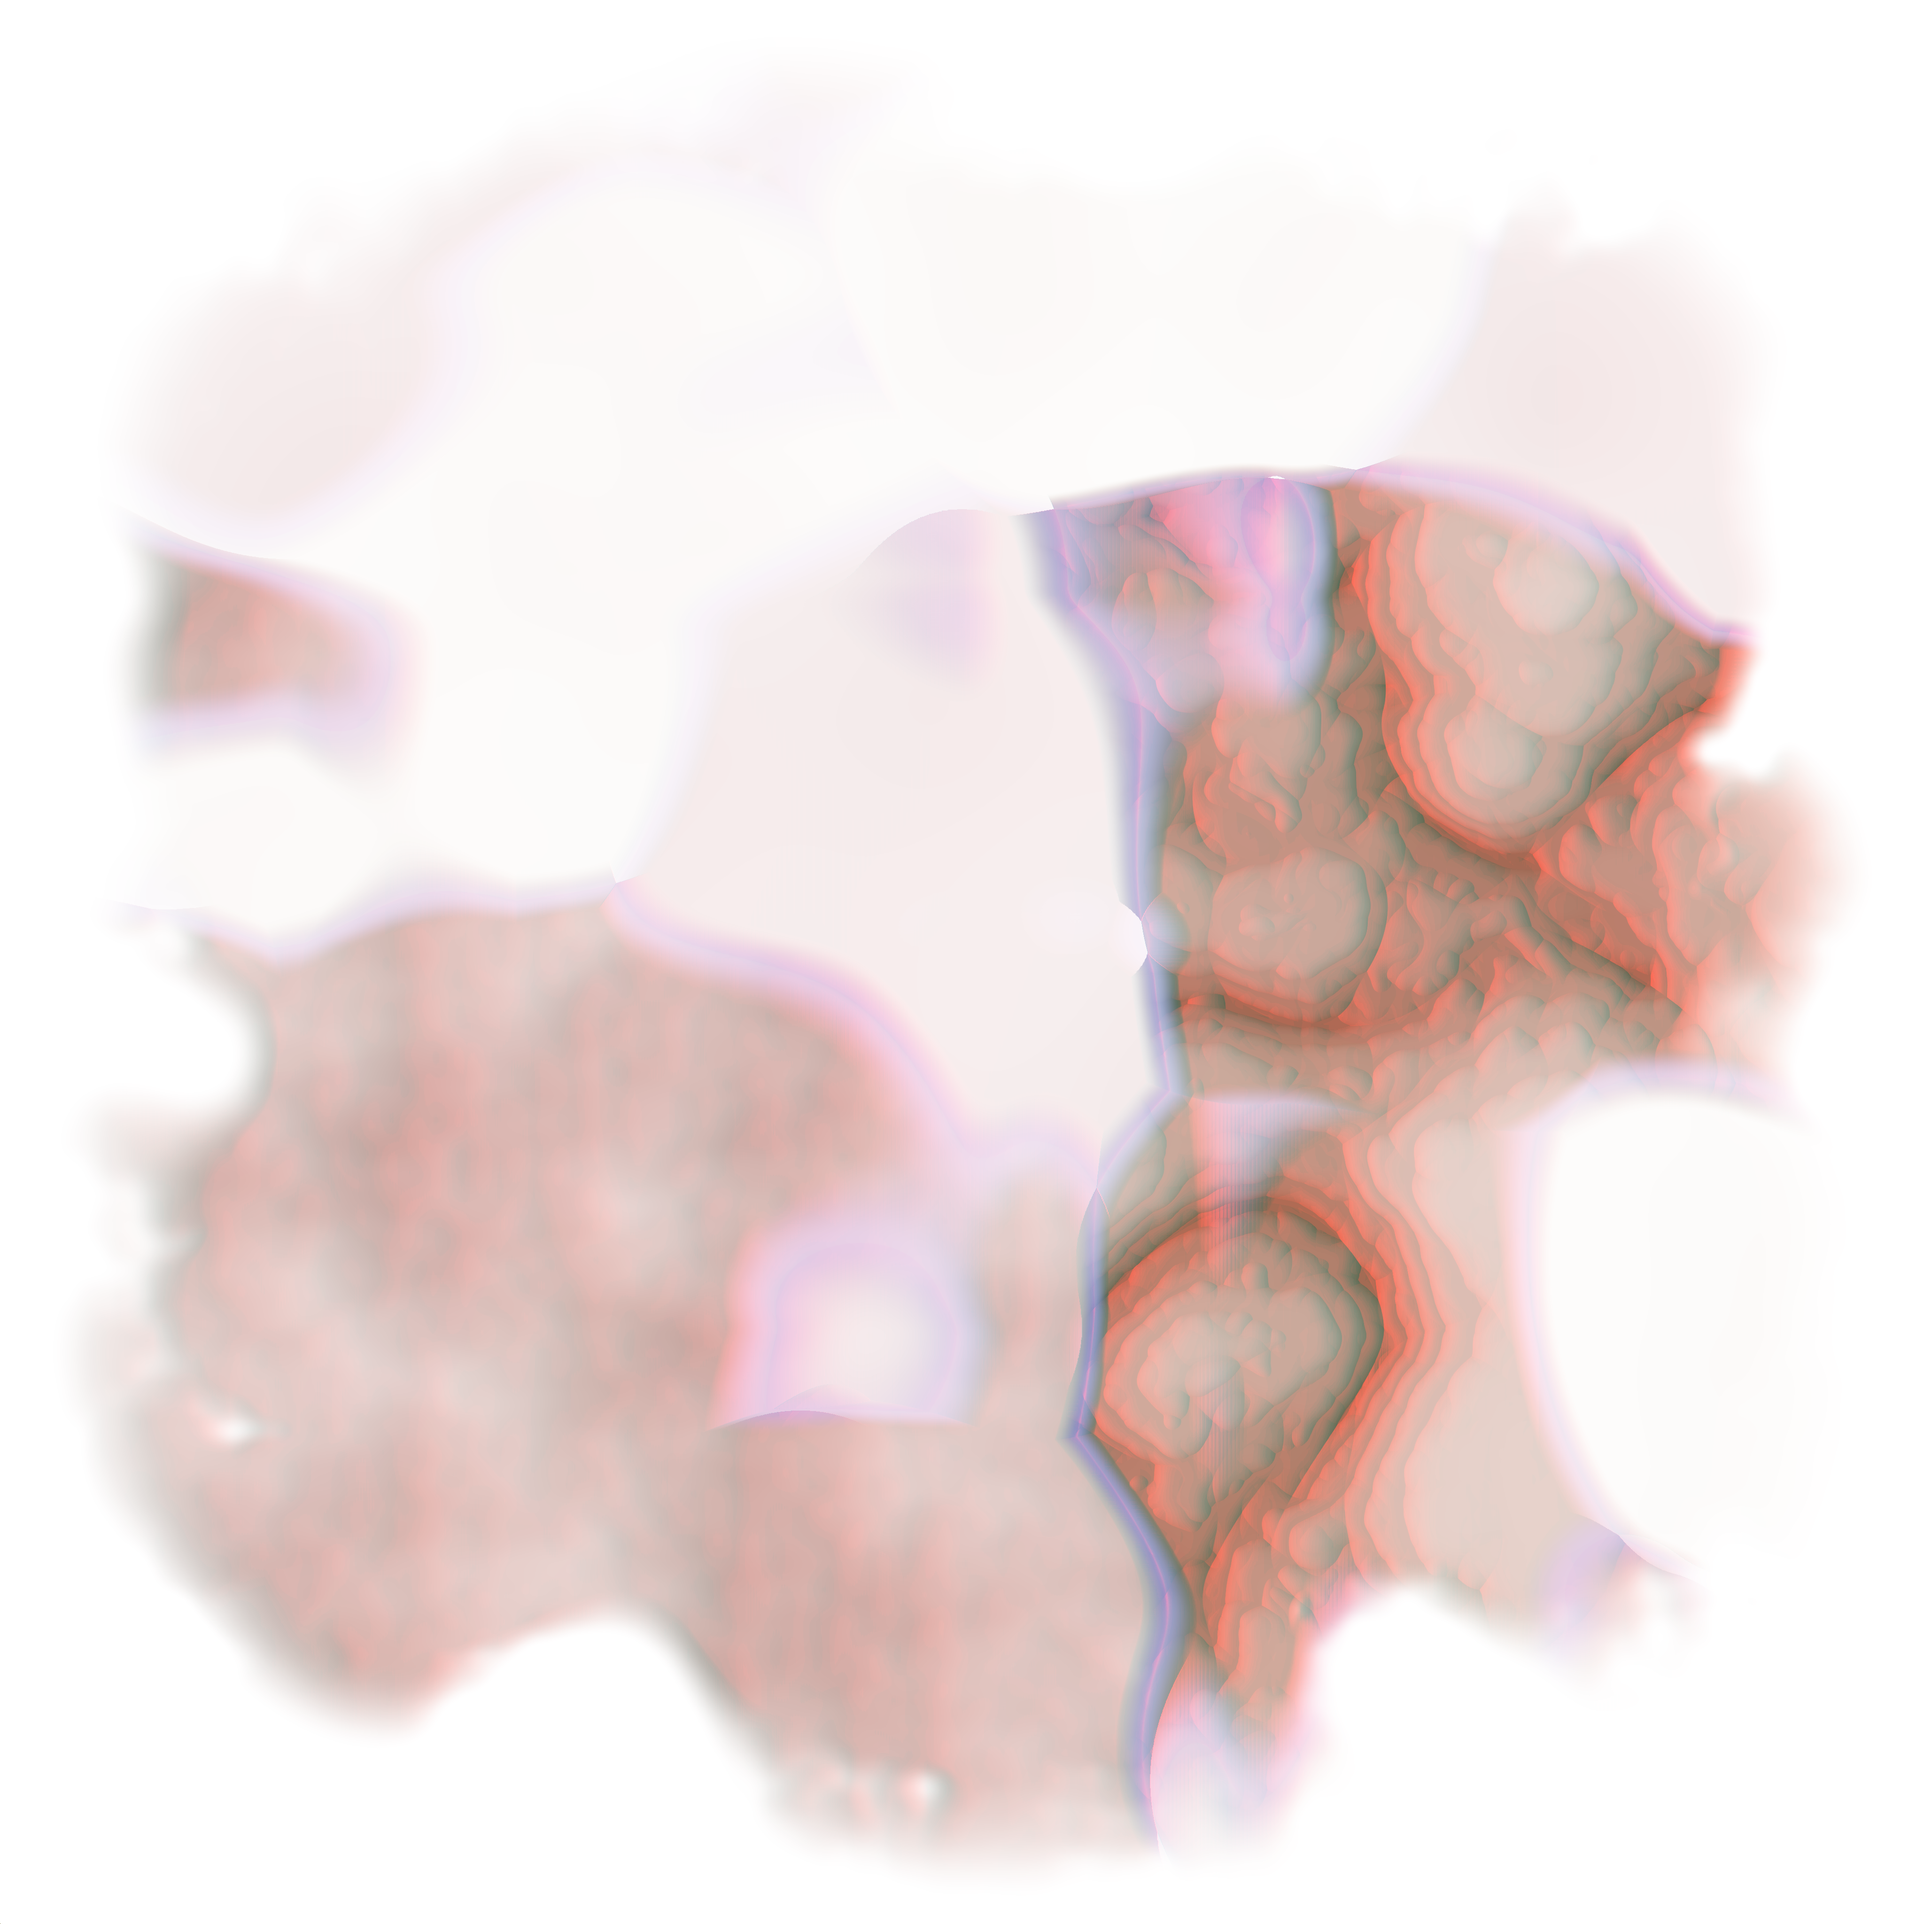
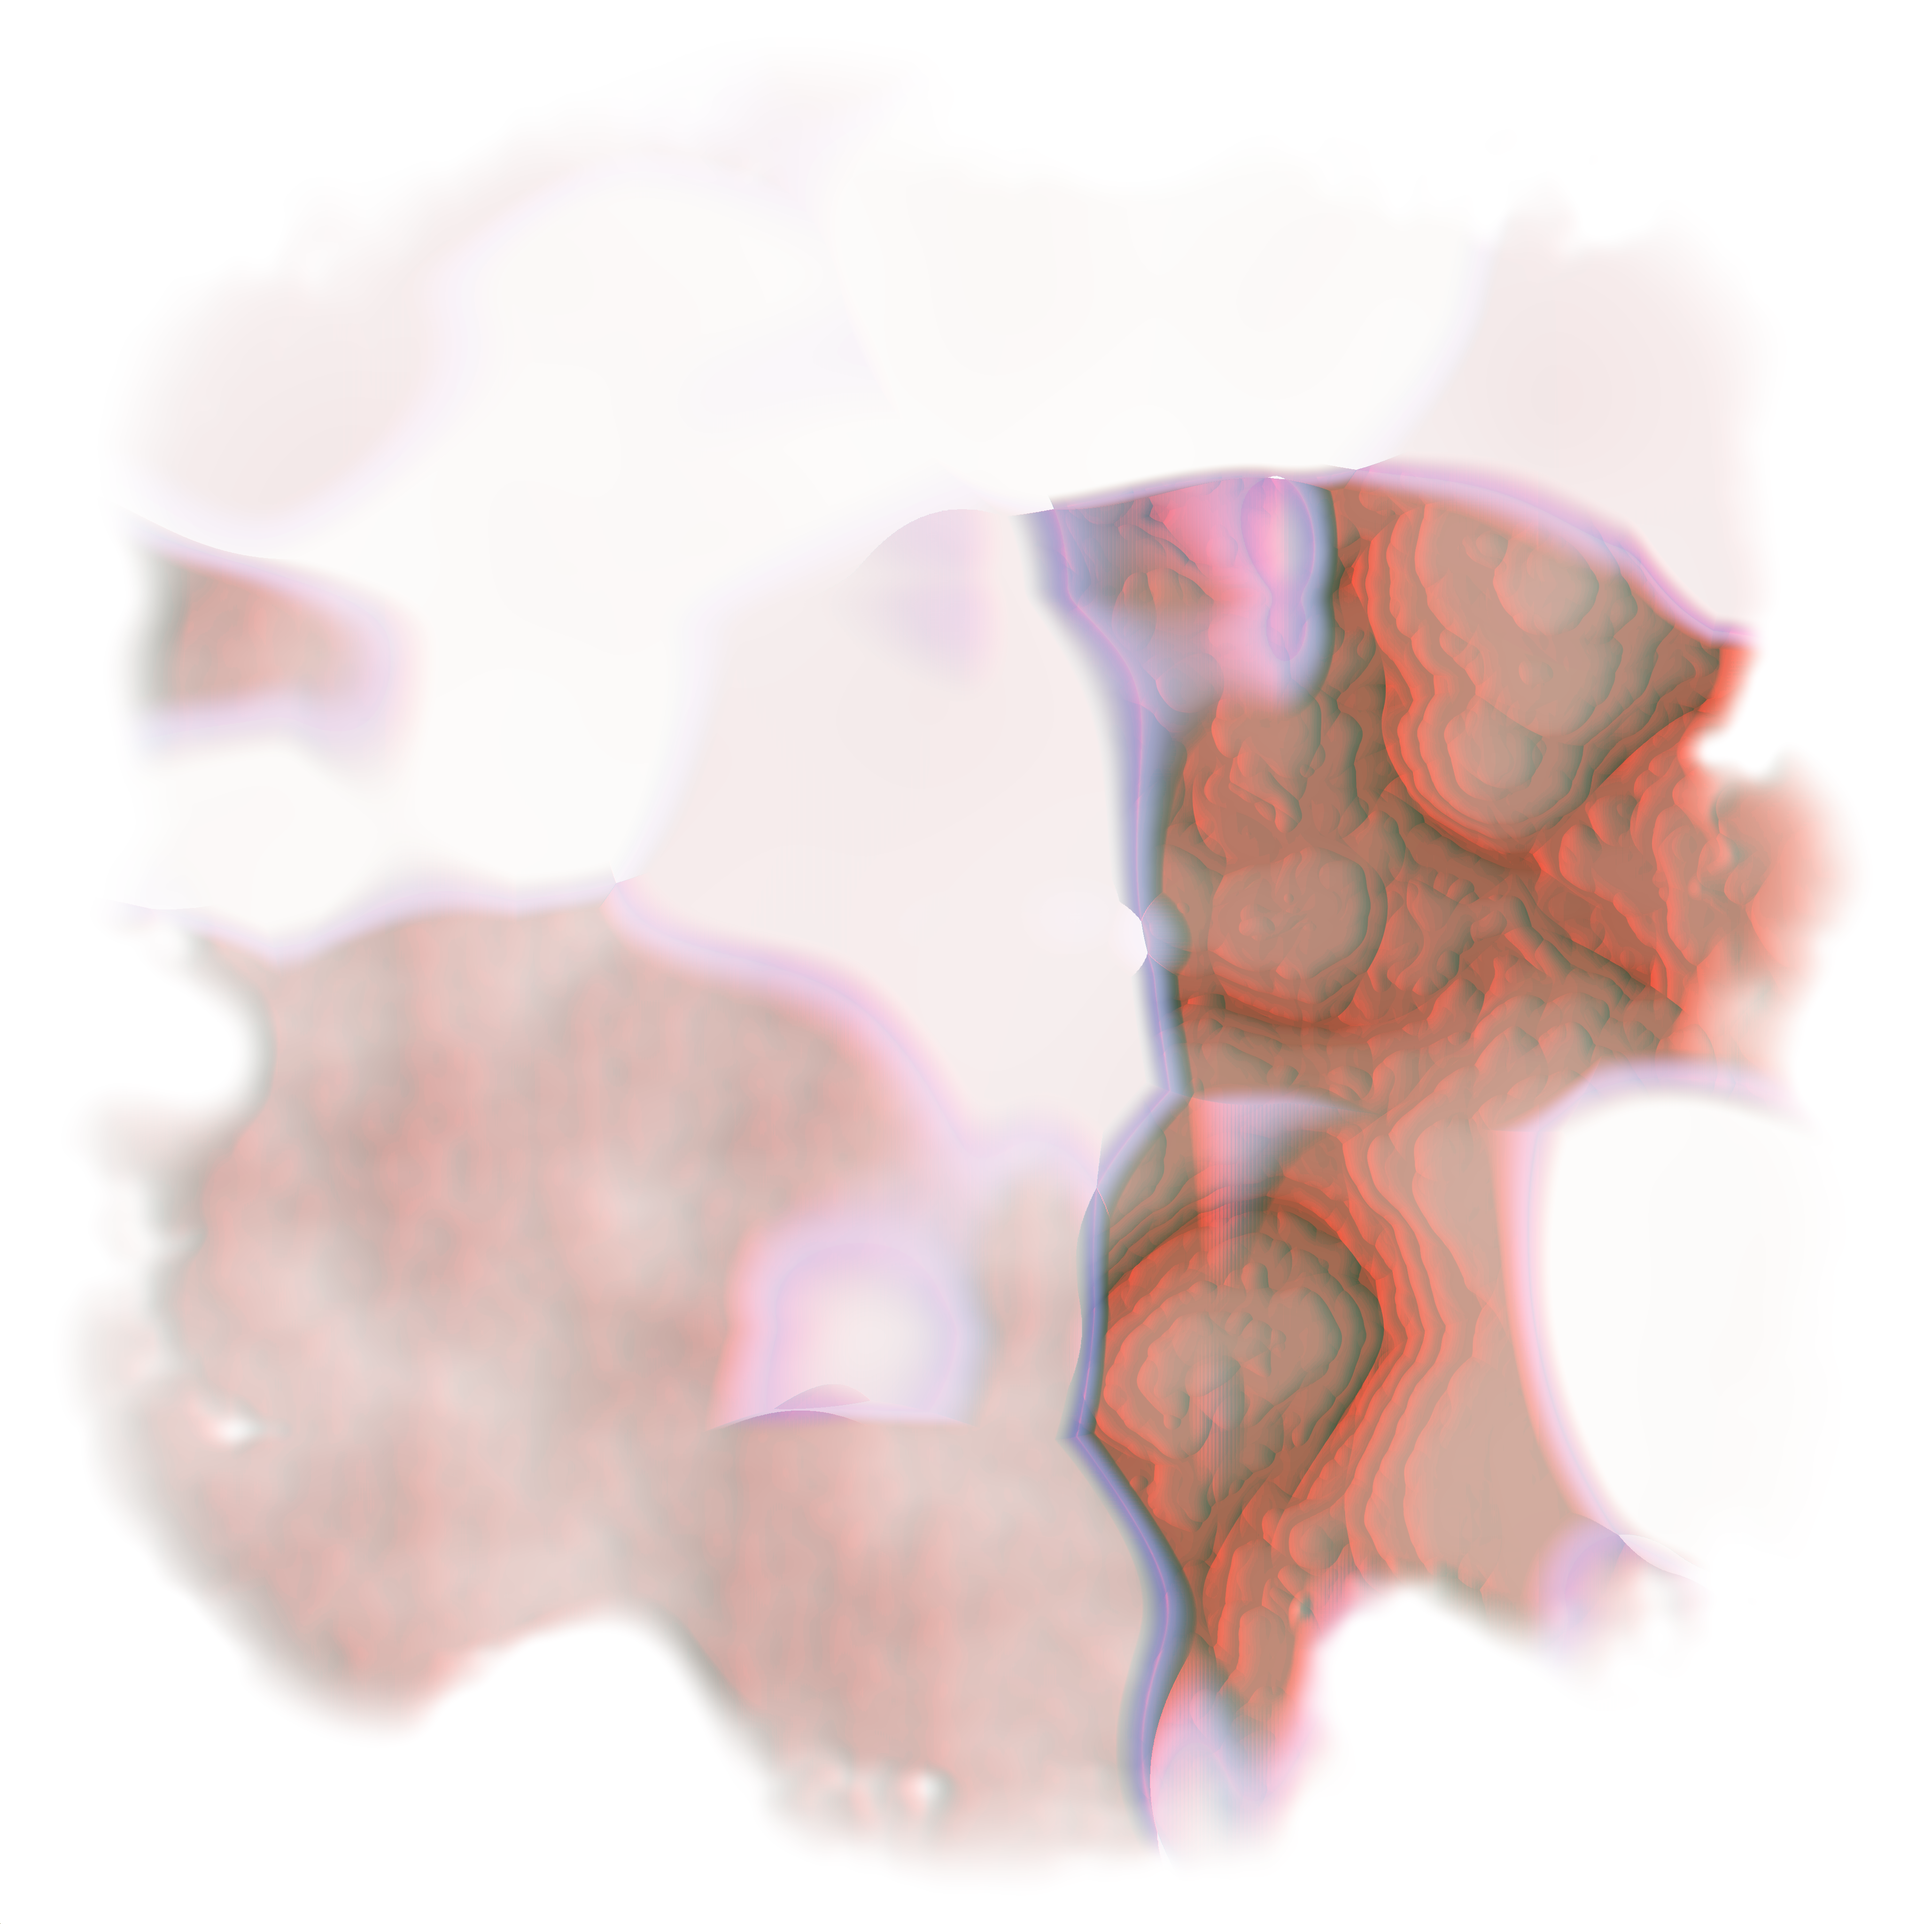
Lift the mountains clear of the meadows
The biomes' elevation bands overlapped: the mountain floor sat at its
BaseElevation of 26 while meadows reached 44.8, so 23% of inland mountain
ground was lower than the tallest meadow. Anything keyed off elevation rather
than biome - a snow line, thinning vegetation - puts its effect on the wrong
ground when that happens, which is how it was noticed.

There was ample room to fix it. The mountains reached only 86 of the 127.5
units the alpha channel encodes, leaving 42 units unused.

BaseElevation goes 26 -> 48, clearing the highest meadow with a few units to
spare, and ReliefAmplitude 95 -> 76 to keep the ceiling at 124, inside the
channel. Trimming the range costs less than it buys: the base contributes in
full, so the peak rises from 86 to 96, and the gentler gradient leaves more of
the biome level - buildable ground over a 6x6 footprint goes from 34% to 40%.

Measured inland, away from the shore ramp, the four bands are now disjoint:

  swamp        2.0 ..  4.1
  plains       8.3 .. 11.8
  meadows     23.6 .. 44.8
  mountains   48.0 .. 95.6

Each floor clears the peak below it. The cost is contrast, which the previous
commit had deliberately narrowed: the meadow-to-mountain gap in medians widens
from 24 to 36 units. That is inherent - a biome cannot both start above
another and sit close to it - and correctness of the ordering wins.

Note that the ordering is maintained by choosing these numbers, not enforced.
[…]

Changed region(s): [[0.5625, 0.25, 0.9375, 0.9062]]

diff --git a/RPGMapGeneration/Generation/BiomeProfile.cs b/RPGMapGeneration/Generation/BiomeProfile.cs
@@ -159,8 +159,17 @@ namespace RPGMapGeneration.Generation
                     Id = 2,
                     Name = "mountains",
                     PreviewColor = Color.FromBytes(150, 150, 158),
-                    BaseElevation = 26.0f,
-                    ReliefAmplitude = 95.0f,
+                    // High enough that the mountain floor clears the highest meadow. Without
+                    // that the two biomes overlap in height - 23% of inland mountain ground
+                    // used to sit below the tallest meadow - and anything keyed off elevation,
+                    // snow or thinning vegetation, ends up on the wrong ground.
+                    BaseElevation = 48.0f,
+
+                    // Trimmed to keep base + relief under the 127.5 the alpha channel encodes.
+                    // Costing the range here buys more than it loses: the peak rises from 86 to
+                    // 96 because the base contributes in full, and the gentler gradient leaves
+                    // more of the biome level.
+                    ReliefAmplitude = 76.0f,
 
                     // Broad massifs rather than a field of spikes. Feature size is what decides
                     // whether terracing can produce a shelf worth standing on: a tread is only
@@ -185,9 +194,9 @@ namespace RPGMapGeneration.Generation
                     // Squaring it digs the valleys back in.
                     ReliefBias = 2,
 
-                    // Eight shelves of about twelve units each. Measured over a 6x6 unit
-                    // footprint, 22% of the biome is now level to within 1.5 units and 41% to
-                    // within 3, against 0% and 1.4% before.
+                    // Eight shelves of about nine and a half units each. Measured over a 6x6
+                    // unit footprint, 43% of the inland biome is level to within 3 units,
+                    // against 1.4% before terracing.
                     TerraceSteps = 8,
                     TerraceStrength = 0.9f,
                     TerraceFlatness = 3

diff --git a/CLAUDE.md b/CLAUDE.md
@@ -55,7 +55,7 @@ so regenerate and byte-compare:
 dotnet run --project rpgmapgen -- -o rpgmapgen/output/check.png -s 4096
 ```
 
-That reproduces `rpgmapgen/output/testgen.png` byte for byte (`sha256 98b2ba4d…` for the
+That reproduces `rpgmapgen/output/testgen.png` byte for byte (`sha256 0b6e4219…` for the
 default settings and a version 1 header). This is a *reproducibility* check, not a parity
 check against Unity: the same settings must always give the same bytes, because a tool's
 preview and the game's bake have to agree. A difference after a refactor that was meant to
@@ -251,11 +251,19 @@ Measured from the checked-in 4096 bake, so that these are not mistaken for desig
   buildable ground from 1.4% to 30%; `TerraceSteps` then added a further 10 points. Reach for
   the noise first and the terraces second. `TerraceStrength` barely moves buildability at all
   (20.7% at 0.5 against 23.6% at 0.9, measured on the baked texture) — it is a look control.
-- **Mountains no longer reach the top of the channel.** Easing `Ridged` to 0.65 and keeping
-  `ReliefBias = 2` caps the achieved peak near 86 of 127.5 units, though the profile's ceiling
-  is 121. That is deliberate: raising it back up widens the gap to the meadows again, which is
-  the contrast the defaults were tuned to close. Note that `DescribeWarnings` checks a
-  profile's *ceiling*, not the height it actually reaches, so it will not flag this.
+- **The biomes' elevation bands are ordered, and nothing enforces it.** `BaseElevation` is a
+  biome's floor, since relief is never negative, and the defaults are picked so each floor
+  clears the peak of the biome below: swamp 2.0–4.1, plains 8.3–11.8, meadows 23.6–44.8,
+  mountains 48.0–95.6 measured inland. Anything keyed off elevation rather than biome — a snow
+  line, thinning vegetation — breaks when the bands overlap, and they did: 23% of inland
+  mountain ground once sat below the tallest meadow. Retuning a `ReliefAmplitude` or a
+  `BaseElevation` can reintroduce that silently, so measure the generated heights after any
+  such change.
+- **A profile's `Ceiling` is not the height it reaches.** `BaseElevation + ReliefAmplitude` is
+  an upper bound the noise never attains — the mountains' ceiling is 124 but they top out near
+  96, because ridging and `ReliefBias` cap the achieved relief around 0.63 of its range.
+  `DescribeWarnings` checks the ceiling, so it will neither flag unused channel range nor catch
+  an overlap. Comparing ceilings to reason about ordering will mislead you.
 - **The bake is single threaded and getting slower.** Each step has added noise per sample;
   at 4096 it is now several minutes. `TerrainHeightSource` and `IslandMask` are pure by
   design, so `Parallel.For` over rows is the fix and needs no restructuring.

diff --git a/README.md b/README.md
@@ -209,12 +209,36 @@ The defaults are the four the world is built from:
 
 | Biome | Base | Relief | Ceiling | Character |
 | --- | --- | --- | --- | --- |
+| swamp | 2 | 2.5 | 4.5 | low and flat |
 | plains | 8 | 6 | 14 | dry and level, heavily biased flat |
 | meadows | 16 | 40 | 56 | broad rolling hills |
-| mountains | 26 | 95 | 121 | ridged and terraced into eight shelves |
-| swamp | 2 | 2.5 | 4.5 | low and flat |
+| mountains | 48 | 76 | 124 | ridged and terraced into eight shelves |
 
-Measured over the island, those come out at means of 2.6, 7.8, 31.3 and 51.9 units.
+### The bands do not overlap
+
+`BaseElevation` is a biome's floor, since relief is never negative. The defaults are chosen so
+that each biome's floor clears the highest ground of the one below it. Measured inland, away
+from the shore ramp:
+
+| biome | floor | median | peak |
+| --- | --- | --- | --- |
+| swamp | 2.0 | 2.9 | 4.1 |
+| plains | 8.3 | 9.5 | 11.8 |
+| meadows | 23.6 | 35.5 | 44.8 |
+| mountains | 48.0 | 71.0 | 95.6 |
+
+That matters for anything keyed off elevation rather than biome - snow lines, thinning
+vegetation. With overlapping bands, mountain valleys sit below meadow hilltops and the rule
+puts snow in the wrong places.
+
+**The ordering is maintained by choosing these numbers, not enforced by the library.** If you
+retune a profile, check it: raising a `ReliefAmplitude` or lowering a `BaseElevation` can
+reintroduce an overlap silently. Note also that a profile's `Ceiling` is not the height it
+reaches - the mountains' ceiling is 124 but they top out near 96 - so comparing ceilings will
+mislead you. Measure the generated heights.
+
+The shore ramp is the deliberate exception: the island mask scales height towards zero at the
+coast, so coastal mountain ground does dip low. That is about 11% of the biome.
 
 A sample's height is the two profiles' heights mixed by the blend weight. The mixing happens
 on the finished heights, not on the noise parameters - interpolating frequencies across a
